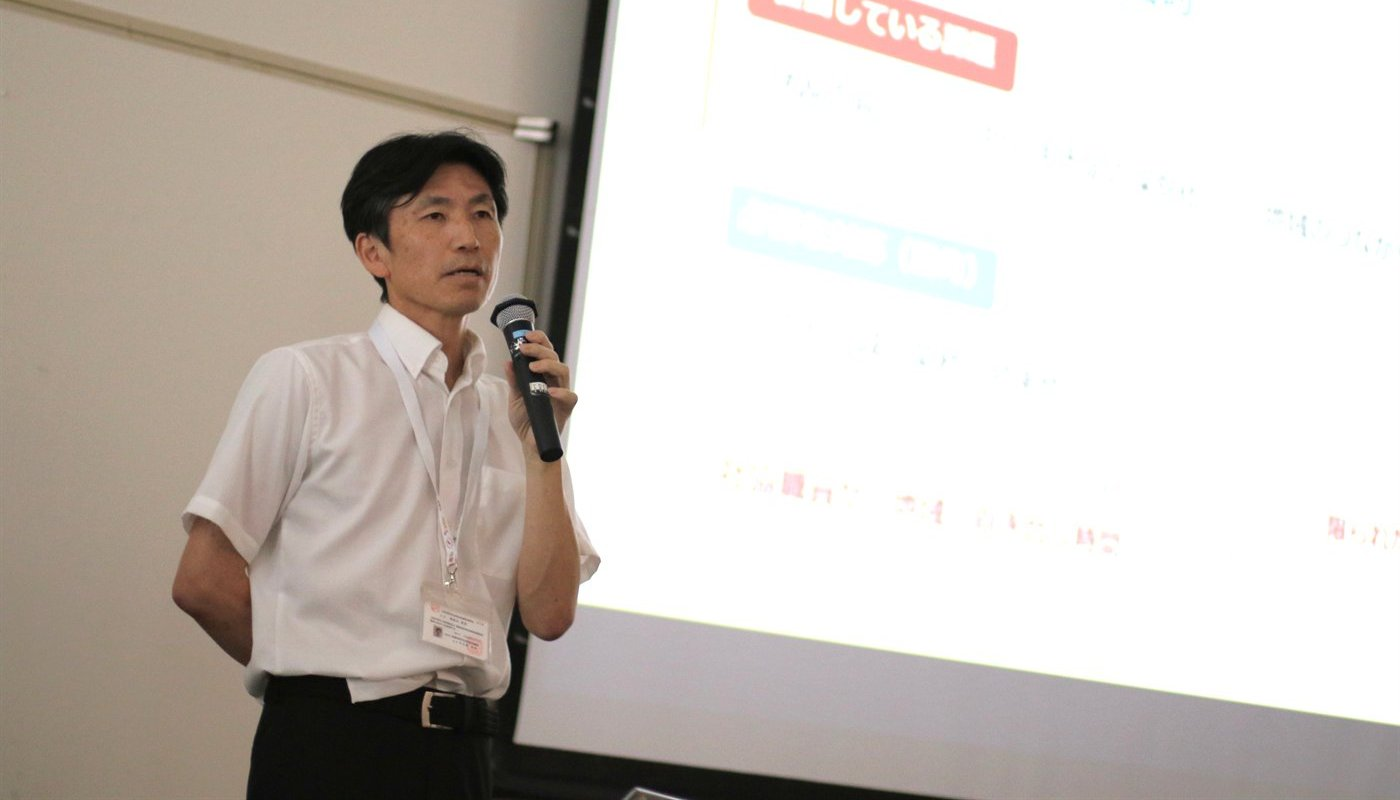
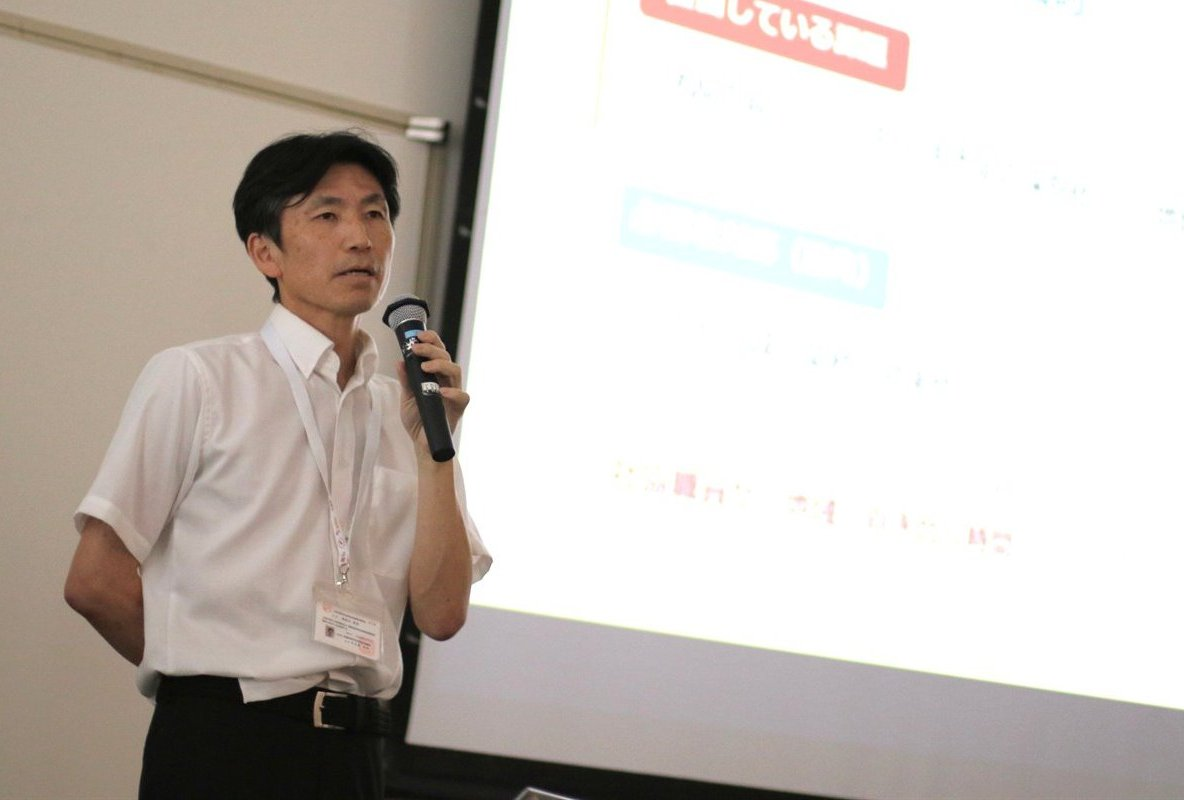
セミナーレポート：全講演写真の左右を1/13ずつカット（表示比率調整）

diff --git a/events/social-welfare-seminar-2026-08/index.html b/events/social-welfare-seminar-2026-08/index.html
@@ -190,7 +190,7 @@
             float: right;
             width: 40%;
             max-width: 300px;
-            aspect-ratio: 7 / 4;
+            aspect-ratio: 1184 / 800;
             object-fit: cover;
             border-radius: 8px;
             margin: 4px 0 12px 22px;
